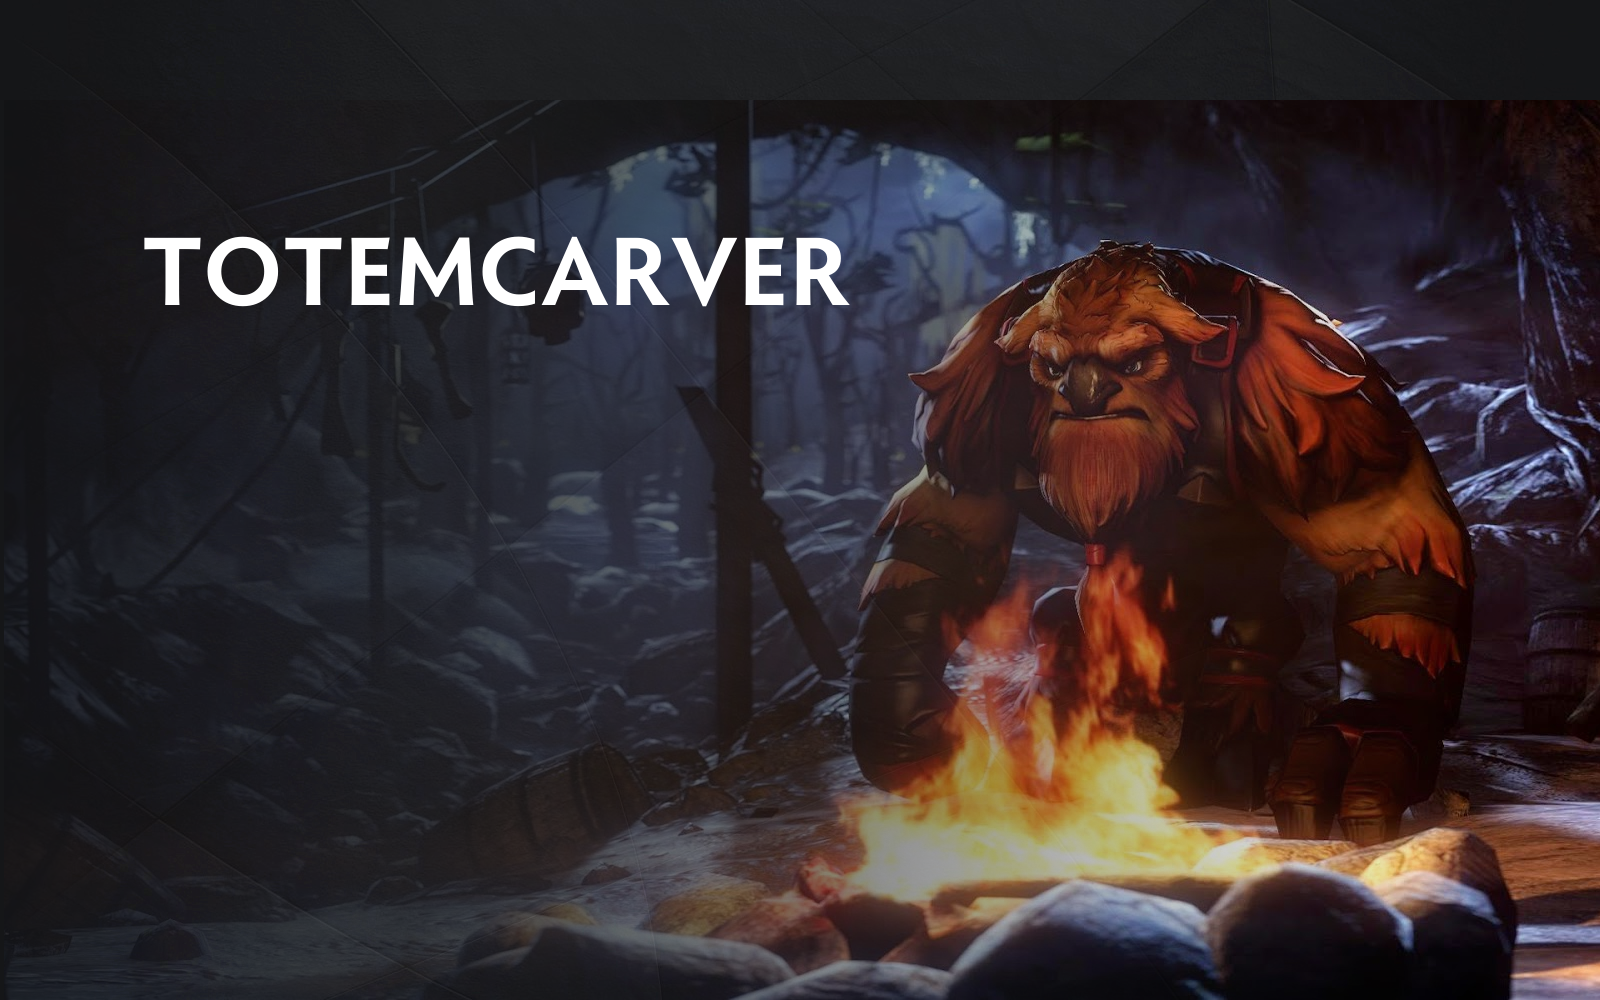
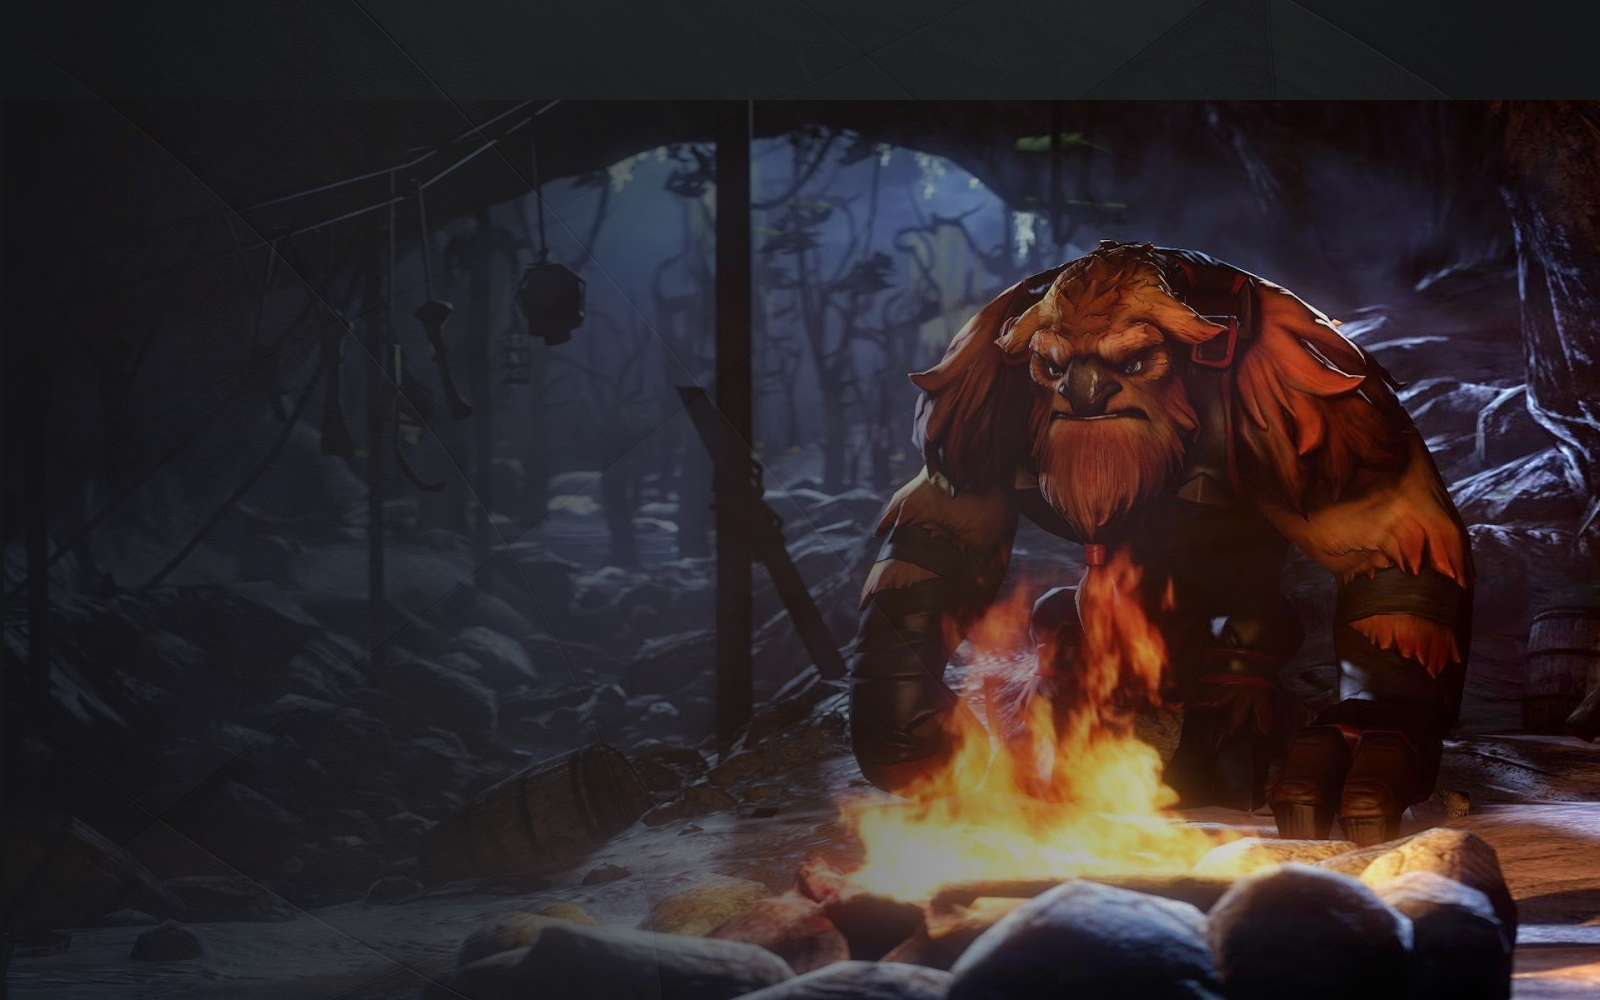
116
116

Changed region(s): [[0.0938, 0.217, 0.5312, 0.31]]

diff --git a/patches/css/global_116.css b/patches/css/global_116.css
@@ -43,7 +43,9 @@ a:visited {color: green;}
 a{text-decoration: none;color:green;font-style:bold;font-size: 25px;font-family: "Radiance";line-height: 34px;text-shadow: 1px 1px 1px #000000}
 
 #Container_Title, #Content_Title{background-image: url("images/116/Container_Title.png");height:500px;background-color: #000000;}
-#Container_01, #Content_01{background-image: url("images/116/BG01.png");height:1000px;background-color: #151618;}
+
+#BG01, #BG01.Inner{background-image: url("images/116/BG01.png");height:861px;background-color: #151618;}
+#BG01 h2 {position: absolute;top: 200px;left: 0px;font-family: 'Radiance';font-size: 100px;color: #D8E6DC;text-transform: uppercase;letter-spacing: 3.6px;text-shadow: 4px 4px black}
 
 #BG02, #BG02.Inner{background-image: url("images/116/BG02.png");height:1400px;background-color: #151618;}
 #BG02 video {position: absolute;top: 100;left: 75px;visibility: collapse;height:500px;}
@@ -85,6 +87,7 @@ a{text-decoration: none;color:green;font-style:bold;font-size: 25px;font-family:
 
 /* <> */
 #BG03, #BG03.Inner{background-image: url("images/116/BG03.png");height:861px;background-color: #151618;}
+#BG03 h2 {position: absolute;top: 100px;left: 0px;font-family: 'Radiance';font-size: 100px;color: #D8E6DC;text-transform: uppercase;letter-spacing: 3.6px;text-shadow: 4px 4px black}
 
 /* <> */
 #BG04, #BG04.Inner{background-image: url("images/116/BG04.png");height:1100px;background-color: #151618;}

diff --git a/patches/116.html b/patches/116.html
@@ -82,8 +82,9 @@
   <h1>GYOKURA - UPDATE: 1.16</h1><br>
   <a href=index.html>PREVIOUS CHANGELOGS</a><br><br>
 </header>
-<div id="Container_01" class="Container">
-	<div id="Content_01" class="Content">
+<div id="BG01" class="Container">
+	<div id="BG01" class="Content">
+	<h2>Totemcarver</h2>	
 	</div>
 </div>
 
@@ -115,7 +116,7 @@
 		<p class="Q GrayDescription">Shoots a slow-moving ball of light which passes through enemies hit, damaging them. The slow grows stronger with each enemy hit.</p>
 
 		<h2 class="W">Dragontide Totem</h2>
-		<p class="W GrayDescription">Places a totem which provides nearby enemies with a mana regeneration aura, and damages enemies each second.</p>
+		<p class="W GrayDescription">Places a totem which provides nearby allies with a mana regeneration aura, and damages enemies each second.</p>
 	
 		<h2 class="E">Totemic Might</h2>
 		<p class="E GrayDescription">Enchants targetted hero, giving them an incoming damage taken reduction if it's an ally, or an attack speed slow if it's an enemy.</p>
@@ -127,8 +128,10 @@
 </div>
 <div id="BG03" class="Container">
 	<div id="BG03" class="Content">
+	<h2>Valkyrie</h2>
 	</div>
 </div>
+
 <div class="Container QActive" id="BG04">
 	<div class="Inner">
 		<div class="ButtonIconContainer">
